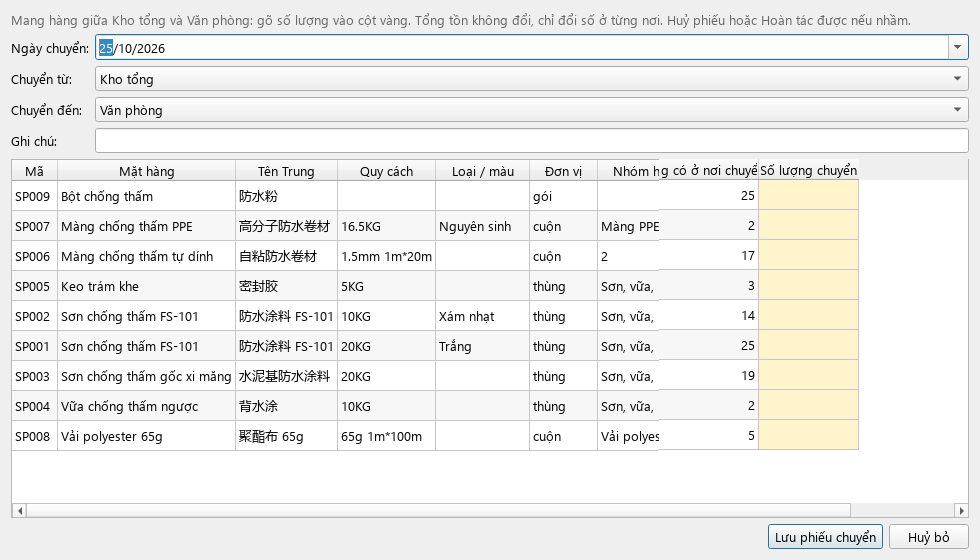
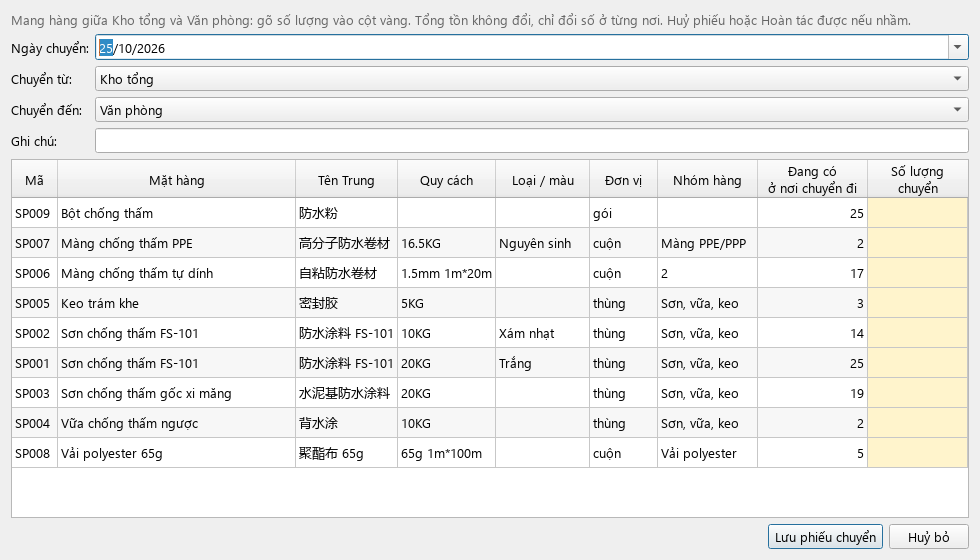
Fix pinned-column edge cases and tighten the merge-candidate matcher
- FrozenColumns: cap the pinned area at ~65% of the viewport (long
  real product names could otherwise cover the whole table on a
  narrow window); dragging a pinned column no longer blockSignals()s
  the host header, which was corrupting the host's own redraw; arrow-
  keying onto a pinned editable cell now moves focus to the overlay
  instead of leaving a hidden editor open on the host; a header click
  on the overlay only sorts when the host itself has sorting enabled
  (TransferDialog turns it off to keep rows aligned with its data).
- Tồn kho: cap Mặt hàng/Tên Trung/Nhóm hàng/Loại-màu widths and always
  set a hover tooltip, so the pinned columns cannot outgrow the table.
- Chuyển hàng: split the two pinned headers onto two lines and cap
  their width -- the Vietnamese/English label text alone was wider
  than the numbers underneath, which fed back into the above cap.
- find_merge_candidates(): the fuzzy source now reads the ranked list
  directly instead of suggest_product(), which always ranked the
  restored product against its own (identical) name first and so
  never reached a real duplicate; also raised to the same >=0.5
  threshold suggest_product() uses, so the merge dialog doesn't pop
  up on every loosely-similar restore. A candidate from the product's
  old alias key is now pre-ticked (near-certain evidence).
- New tests: dragging a pinned column resizes the host; typing through
  a pinned, editable cell reaches the real data and never opens a
[…]

Changed region(s): [[0.0, 0.2732, 1.0, 0.85]]

diff --git a/tests/test_features.py b/tests/test_features.py
@@ -361,7 +361,7 @@ def test_restore_deleted_product_from_backup(conn, ws):
     assert (data.name_vi, data.name_zh, data.spec, data.unit, data.category, data.min_stock, data.stock_note) == (
         "Sơn thừa", "涂料", "5KG", "thùng", "Sơn", 10, "Hộp bị lỗi")
     new_id = catalog.restore_product(conn, data.code, data)
-    assert catalog.find_merge_candidates(conn, new_id, data) == []  # nothing else to confuse it with
+    assert catalog.find_merge_candidates(conn, new_id, data) == ([], 0)  # nothing else to confuse it with
     row = conn.execute("SELECT * FROM products WHERE id = ?", (new_id,)).fetchone()
     assert row["code"] == "SP001" and row["name_vi"] == "Sơn thừa"
 
@@ -369,7 +369,8 @@ def test_restore_deleted_product_from_backup(conn, ws):
 def test_find_merge_candidates_via_an_old_alias_key(conn, ws):
     """The deleted product had a learned name (but, unusually, no document yet -- the only way it could be
     deleted) pointing to it; by the time it is restored, that same name has been relearned onto a different
-    product. That is the strongest sign of all that the two are the same item."""
+    product. That is the strongest sign of all that the two are the same item, so it is first and counted
+    as an alias match -- the caller pre-ticks it."""
     pid = catalog.create_product(conn, "Sơn thừa", spec="5KG")
     catalog.set_alias(conn, "son thua|5kg", pid, "Sơn thừa")
     backup.named_backup(conn, ws, "truoc-xoa")
@@ -379,13 +380,15 @@ def test_find_merge_candidates_via_an_old_alias_key(conn, ws):
     data = catalog.deleted_products(conn, ws)[0]
     assert data.alias_keys == ("son thua|5kg",)
     new_id = catalog.restore_product(conn, data.code, data)
-    candidates = catalog.find_merge_candidates(conn, new_id, data)
-    assert candidates and candidates[0]["id"] == again
+    candidates, alias_matches = catalog.find_merge_candidates(conn, new_id, data)
+    assert candidates and candidates[0]["id"] == again and alias_matches == 1
 
 
 def test_find_merge_candidates_falls_back_to_the_fuzzy_matcher(conn, ws):
     """The usual case: a catalog product nobody ever recognised on a note (no alias) is deleted by mistake,
-    then re-created from a note whose own wording does not exactly match the restored product's."""
+    then re-created from a note whose own wording does not exactly match the restored product's. Uses the
+    same, higher-confidence matcher as the single best guess 'Cần xử lý' pre-fills for an unrecognised
+    line (score >= 0.5), not the looser one listing a few options -- this dialog must stay rare."""
     pid = catalog.create_product(conn, "Sơn FS-101", "雨堡垒FS-101防水涂料", "20KG", unit="thùng", variant="Trắng")
     backup.named_backup(conn, ws, "truoc-xoa")
     catalog.delete_product(conn, pid)
@@ -394,7 +397,8 @@ def test_find_merge_candidates_falls_back_to_the_fuzzy_matcher(conn, ws):
     assert data.alias_keys == ()  # it never had one
     assert catalog.find_same(conn, data.name_vi, data.spec, data.variant) is None  # the exact match misses too
     new_id = catalog.restore_product(conn, data.code, data)
-    candidates = catalog.find_merge_candidates(conn, new_id, data)
+    candidates, alias_matches = catalog.find_merge_candidates(conn, new_id, data)
+    assert alias_matches == 0
     assert any(c["id"] == again for c in candidates)
 
 

diff --git a/src/dibekho/core/catalog.py b/src/dibekho/core/catalog.py
@@ -225,15 +225,18 @@ def restore_product(conn, code: str, data: DeletedProduct) -> int:
     return cur.lastrowid
 
 
-def find_merge_candidates(conn, new_id: int, data: DeletedProduct) -> list[sqlite3.Row]:
+def find_merge_candidates(conn, new_id: int, data: DeletedProduct) -> tuple[list[sqlite3.Row], int]:
     """Products that might be the same item as the one just restored, best evidence first -- never the
     restored product itself:
     1. a product that now owns one of the delivery-note names this one used to be recognised by (read from
        the same backup): the near-certain sign of a duplicate created by re-reading a note after the mistake;
     2. an exact name + packing + type match;
-    3. the fuzzy matcher 'Cần xử lý' uses for a line it does not recognise.
-    The caller shows these next to the restored product and merges with merge_products() if the user picks
-    one; it decides which code survives."""
+    3. the same, higher-confidence fuzzy matcher suggest_product() uses to pre-fill a single best guess for
+       a line 'Cần xử lý' does not recognise (score >= 0.5) -- not the looser one offering a few options,
+       which would make this dialog pop up on almost every restore.
+    Returns (candidates, alias_matches): the first `alias_matches` rows came from source 1, near-certain
+    enough that the caller pre-ticks the first one. The caller shows these next to the restored product and
+    merges with merge_products() if the user picks one; it decides which code survives."""
     seen = {new_id}
     result = []
     for key in data.alias_keys:
@@ -243,15 +246,18 @@ def find_merge_candidates(conn, new_id: int, data: DeletedProduct) -> list[sqlit
             row = conn.execute("SELECT * FROM products WHERE id = ?", (pid,)).fetchone()
             if row is not None:
                 result.append(row)
+    alias_matches = len(result)
     same = find_same(conn, data.name_vi, data.spec, data.variant)
     if same is not None and same["id"] not in seen:
         seen.add(same["id"])
         result.append(same)
-    for p in suggest_products(conn, data.name_zh or data.name_vi, data.spec):
-        if p["id"] not in seen:
-            seen.add(p["id"])
-            result.append(p)
-    return result
+    # suggest_product() alone would rank the restored product against itself first (an exact match for its
+    # own name) and never reach a real duplicate, so the ranked list is walked directly, same threshold.
+    match = next((p for score, p in _ranked(conn, data.name_zh or data.name_vi, data.spec)
+                 if score >= 0.5 and p["id"] not in seen), None)
+    if match is not None:
+        result.append(match)
+    return result, alias_matches
 
 
 def products(conn, include_inactive=False) -> list[sqlite3.Row]:

diff --git a/src/dibekho/ui/common.py b/src/dibekho/ui/common.py
@@ -340,6 +340,8 @@ class FrozenColumns(QTableView):
         table.horizontalHeader().sortIndicatorChanged.connect(self._sort_from_host)
         table.horizontalScrollBar().rangeChanged.connect(lambda *_: self.place())
         self.doubleClicked.connect(table.doubleClicked)
+        if editable:  # arrowing onto a pinned cell from the host must not leave its (hidden) editor open there
+            self.selectionModel().currentChanged.connect(self._follow_focus)
         table.viewport().stackUnder(self)
         self.place()
 
@@ -350,13 +352,11 @@ class FrozenColumns(QTableView):
 
     def _own_resized(self, col, _old, new) -> None:
         if self.host.columnWidth(col) != new:
-            self.host.horizontalHeader().blockSignals(True)
-            self.host.setColumnWidth(col, new)
-            self.host.horizontalHeader().blockSignals(False)
+            self.host.setColumnWidth(col, new)  # _host_resized sees the same value already set: no loop
         self.place()
 
     def _sort_from_here(self, col, order) -> None:
-        if self._guard:
+        if self._guard or not self.host.isSortingEnabled():
             return
         self._guard = True
         try:
@@ -373,16 +373,21 @@ class FrozenColumns(QTableView):
         finally:
             self._guard = False
 
+    def _follow_focus(self, current, _previous) -> None:
+        if self.isVisible() and current.column() in self.columns:
+            self.setFocus(Qt.OtherFocusReason)
+
     def place(self) -> None:
-        """Hidden unless `table` actually needs to scroll sideways; otherwise sized and positioned over its
-        pinned columns, using the viewport's own geometry (not `table`'s outer size, which ignores its
-        frame and scrollbars)."""
-        if self.host.horizontalScrollBar().maximum() <= 0:
+        """Hidden unless `table` actually needs to scroll sideways, or the pinned columns alone would cover
+        most of the table (long real names on a narrow window: plain scrolling beats an overlay that hides
+        everything else). Otherwise sized and positioned over its pinned columns, using the viewport's own
+        geometry (not `table`'s outer size, which ignores its frame and scrollbars)."""
+        vp = self.host.viewport()
+        width = sum(self.host.columnWidth(c) for c in self.columns)
+        if self.host.horizontalScrollBar().maximum() <= 0 or width > vp.width() * 0.65:
             self.setVisible(False)
             return
         self.setVisible(True)
-        vp = self.host.viewport()
-        width = sum(self.host.columnWidth(c) for c in self.columns)
         height = vp.height() + self.host.horizontalHeader().height()
         x = vp.x() if self.side == "left" else vp.x() + vp.width() - width
         self.setGeometry(x, 0, width, height)

diff --git a/src/dibekho/ui/transfer_page.py b/src/dibekho/ui/transfer_page.py
@@ -230,7 +230,7 @@ class MergeDuplicateDialog(QDialog):
     product, then 'Gộp' -- the smaller code survives, every document line and stock movement moves onto it,
     and empty fields are filled from the other side -- or 'Giữ riêng' if none of them actually match."""
 
-    def __init__(self, ctx, restored_row, candidates: list, parent=None):
+    def __init__(self, ctx, restored_row, candidates: list, alias_matches: int = 0, parent=None):
         super().__init__(parent)
         self.candidates = candidates
         self.setWindowTitle(t("restore.duplicate_title"))
@@ -247,10 +247,12 @@ class MergeDuplicateDialog(QDialog):
                                  p["stock_note"]] for p in rows])
         self.table.setSortingEnabled(False)
         self.table.item(0, 0).setToolTip(t("restore.duplicate_restored"))
+        # a candidate from the product's own old alias key is near-certain: pre-ticked, not left for the
+        # user to notice among several rows
         for r in range(1, self.table.rowCount()):
             first = self.table.item(r, 0)
             first.setFlags((first.flags() | Qt.ItemIsUserCheckable) & ~Qt.ItemIsEditable)
-            first.setCheckState(Qt.Unchecked)
+            first.setCheckState(Qt.Checked if r == 1 and alias_matches else Qt.Unchecked)
         self.table.itemChanged.connect(self._radio)
         lay.addWidget(self.table)
         row = QHBoxLayout()
@@ -420,10 +422,10 @@ class TransferPanel(QWidget):
         for data in chosen:
             with db.transaction(self.ctx.conn):
                 new_id = catalog.restore_product(self.ctx.conn, data.code, data)
-            candidates = catalog.find_merge_candidates(self.ctx.conn, new_id, data)
+            candidates, alias_matches = catalog.find_merge_candidates(self.ctx.conn, new_id, data)
             if candidates:
                 restored = self.ctx.conn.execute("SELECT * FROM products WHERE id = ?", (new_id,)).fetchone()
-                dlg = MergeDuplicateDialog(self.ctx, restored, candidates, self)
+                dlg = MergeDuplicateDialog(self.ctx, restored, candidates, alias_matches, self)
                 if dlg.exec() == QDialog.Accepted:
                     with db.transaction(self.ctx.conn):
                         catalog.merge_products(self.ctx.conn, new_id, dlg.chosen()["id"])

diff --git a/tests/test_locations.py b/tests/test_locations.py
@@ -405,6 +405,29 @@ def test_screens_places_notes_and_alarm(app, ws, monkeypatch):
     win.close()
 
 
+def test_dragging_a_pinned_column_wider_resizes_the_real_table(app, ws):
+    """Dragging a column border on the frozen pane must resize the real (host) column too, not just the
+    overlay's own copy of the header -- host.horizontalHeader() must not be blockSignals()-ed in the process,
+    or the table stops redrawing/scrolling correctly after the drag."""
+    from dibekho.ui.stock_page import MIN_STOCK, NAME
+
+    make_note(ws.deliveries / "a.xlsx", code="1", lines=[PAINT])
+    ctx, win = window(ws)
+    known(ctx.conn, ws)
+    win.show()
+    win.resize(1260, 700)
+    win.nav.setCurrentRow(0)
+    app.processEvents()
+    stock = win.stack.widget(0)
+    frozen = stock.table._frozen[0]
+    before = stock.table.horizontalHeader().sectionPosition(MIN_STOCK)
+    frozen.horizontalHeader().resizeSection(NAME, 300)
+    app.processEvents()
+    assert stock.table.columnWidth(NAME) == 300
+    assert stock.table.horizontalHeader().sectionPosition(MIN_STOCK) != before
+    win.close()
+
+
 def test_transfer_dialog_edits_through_the_frozen_pane(app, ws):
     """Số lượng is pinned on the right (frozen_columns): typing through that pane must land in the real
     cell, not open a second, hidden editor on the cell underneath."""
@@ -418,7 +441,7 @@ def test_transfer_dialog_edits_through_the_frozen_pane(app, ws):
     paint = ctx.conn.execute("SELECT id FROM products WHERE name_zh = '背水涂'").fetchone()[0]
     dlg = count_mod.TransferDialog(ctx, win)
     dlg.show()
-    dlg.resize(420, 320)  # narrow enough that Số lượng would scroll out of view without the frozen pane
+    dlg.resize(700, 320)  # narrow enough that Số lượng would scroll out of view without the frozen pane
     app.processEvents()
     assert dlg.frozen.isVisible()
     r = next(r for r in range(dlg.table.rowCount()) if dlg.table.item(r, 0).data(count_mod.Qt.UserRole) == paint)

diff --git a/src/dibekho/ui/stock_page.py b/src/dibekho/ui/stock_page.py
@@ -114,6 +114,13 @@ class StockPage(Page):
         self.table.blockSignals(True)
         fill_table(self.table, rows, ids=ids, colors=colors)
         only_editable(self.table, {NOTE})
+        for r in range(self.table.rowCount()):  # real names can be long; always show the rest on hover
+            for col in (NAME, ZH):
+                item = self.table.item(r, col)
+                item.setToolTip(item.text())
+        # capped so the pinned columns (Mã..Tồn) cannot grow wider than the table itself (see FrozenColumns)
+        for col, width in ((NAME, 230), (ZH, 200), (CATEGORY, 150), (VARIANT, 120)):
+            self.table.setColumnWidth(col, min(self.table.columnWidth(col), width))
         self.table.setColumnWidth(NOTE, 160)  # long notes: elided, hover to read in full
         self.table.blockSignals(False)
         self.empty.setVisible(not catalog.products(self.ctx.conn, include_inactive=True))

diff --git a/src/dibekho/ui/count_page.py b/src/dibekho/ui/count_page.py
@@ -262,6 +262,9 @@ class TransferDialog(QDialog):
                     item.setBackground(YELLOW)
                 else:
                     item.setFlags(item.flags() & ~Qt.ItemIsEditable)
+        # capped: both are pinned (freeze_columns), and the long header label must not widen them
+        for col in (TRANS_AVAILABLE, TRANS_QTY):
+            self.table.setColumnWidth(col, min(self.table.columnWidth(col), 110))
         self.table.setSortingEnabled(False)
 
     def _typed(self) -> dict[int, float]:
